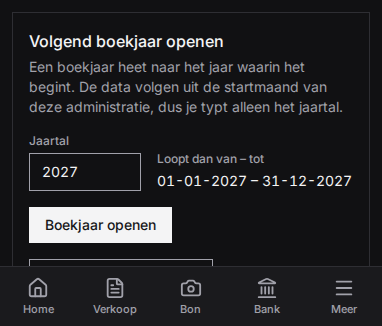
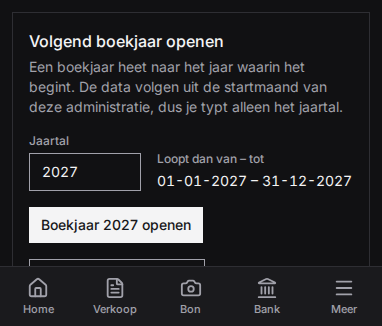
fix(web): year-specific visible Boekjaren open labels
Show Boekjaar {year} openen on next- and prior-year actions (no aria-label
override), nowrap at 390px, refreshed open-actions screenshots, e2e locators.

Changed region(s): [[0.0864, 0.6135, 0.5471, 0.7669]]

diff --git a/apps/web/src/routes/_app/fiscal-years.tsx b/apps/web/src/routes/_app/fiscal-years.tsx
@@ -458,10 +458,7 @@ function OpenNextYear({
           onClick={() => {
             void create()
           }}
-          aria-label={
-            planned === null ? t('fiscalYears.open') : t('fiscalYears.openNow', { year: code.trim() })
-          }
-          className="bg-primary text-primary-foreground px-4 py-2 text-sm font-medium disabled:opacity-50"
+          className="bg-primary text-primary-foreground whitespace-nowrap px-3 py-2 text-sm font-medium disabled:opacity-50 sm:px-4"
         >
           {busy
             ? t('common.busy')
@@ -470,15 +467,15 @@ function OpenNextYear({
               : t('fiscalYears.openNow', { year: code.trim() })}
         </button>
 
-        {priorAvailable && !priorExpanded ? (
+        {priorAvailable && priorCode !== null && !priorExpanded ? (
           <button
             type="button"
-            className="border-input text-muted-foreground hover:bg-accent border px-4 py-2 text-sm font-medium"
+            className="border-input text-muted-foreground hover:bg-accent whitespace-nowrap border px-3 py-2 text-sm font-medium sm:px-4"
             onClick={() => {
               setPriorExpanded(true)
             }}
           >
-            {t('fiscalYears.openPriorAction')}
+            {t('fiscalYears.openNow', { year: priorCode })}
           </button>
         ) : null}
       </div>
@@ -622,7 +619,7 @@ function PriorYearConfirmPanel({
         onClick={() => {
           void create()
         }}
-        className="bg-primary text-primary-foreground mt-4 inline-flex min-h-11 items-center px-4 py-2 text-sm font-medium disabled:opacity-50"
+        className="bg-primary text-primary-foreground mt-4 inline-flex min-h-11 items-center whitespace-nowrap px-3 py-2 text-sm font-medium disabled:opacity-50 sm:px-4"
       >
         {busy ? t('common.busy') : t('fiscalYears.openNow', { year: code })}
       </button>

diff --git a/apps/web/e2e/fiscal-year-booking-200.spec.ts b/apps/web/e2e/fiscal-year-booking-200.spec.ts
@@ -139,7 +139,7 @@ test('prior-year confirm offers only earliest open year minus one, with no year 
 
   await page.goto('/fiscal-years')
   await hydrated(page)
-  await page.getByRole('button', { name: 'Vorig boekjaar openen' }).click()
+  await page.getByRole('button', { name: 'Boekjaar 2025 openen' }).click()
 
   const panel = page.getByTestId('open-prior-year')
   await expect(panel.getByTestId('fixed-year-open-code')).toHaveText('2025', {
@@ -160,7 +160,7 @@ test('at book-year floor 1960, prior-year opening is not offered', async ({ page
   expect(opened.ok()).toBeTruthy()
 
   await page.goto('/fiscal-years')
-  await expect(page.getByRole('button', { name: 'Vorig boekjaar openen' })).toHaveCount(0)
+  await expect(page.getByRole('button', { name: 'Boekjaar 1959 openen' })).toHaveCount(0)
   await expect(page.getByTestId('open-prior-year')).toHaveCount(0)
 })
 

diff --git a/apps/web/e2e/pr-screenshots-200.spec.ts b/apps/web/e2e/pr-screenshots-200.spec.ts
@@ -204,10 +204,10 @@ test('capture #200 fiscal year booking gate screenshots', async ({ page, browser
   await page.goto('/fiscal-years')
   await hydrated(page)
   await expect(page.getByTestId('fiscal-years-open-section')).toBeVisible()
-  await expect(page.getByRole('button', { name: 'Vorig boekjaar openen' })).toBeVisible()
+  await expect(page.getByRole('button', { name: 'Boekjaar 2025 openen' })).toBeVisible()
   await shoot(page, 'fiscal-years-open-actions', page.getByTestId('fiscal-years-open-section'))
 
-  await page.getByRole('button', { name: 'Vorig boekjaar openen' }).click()
+  await page.getByRole('button', { name: 'Boekjaar 2025 openen' }).click()
   await expect(page.getByTestId('open-prior-year')).toBeVisible()
   await shoot(page, 'fiscal-years-prior-expanded', page.getByTestId('fiscal-years-open-section'))
 
